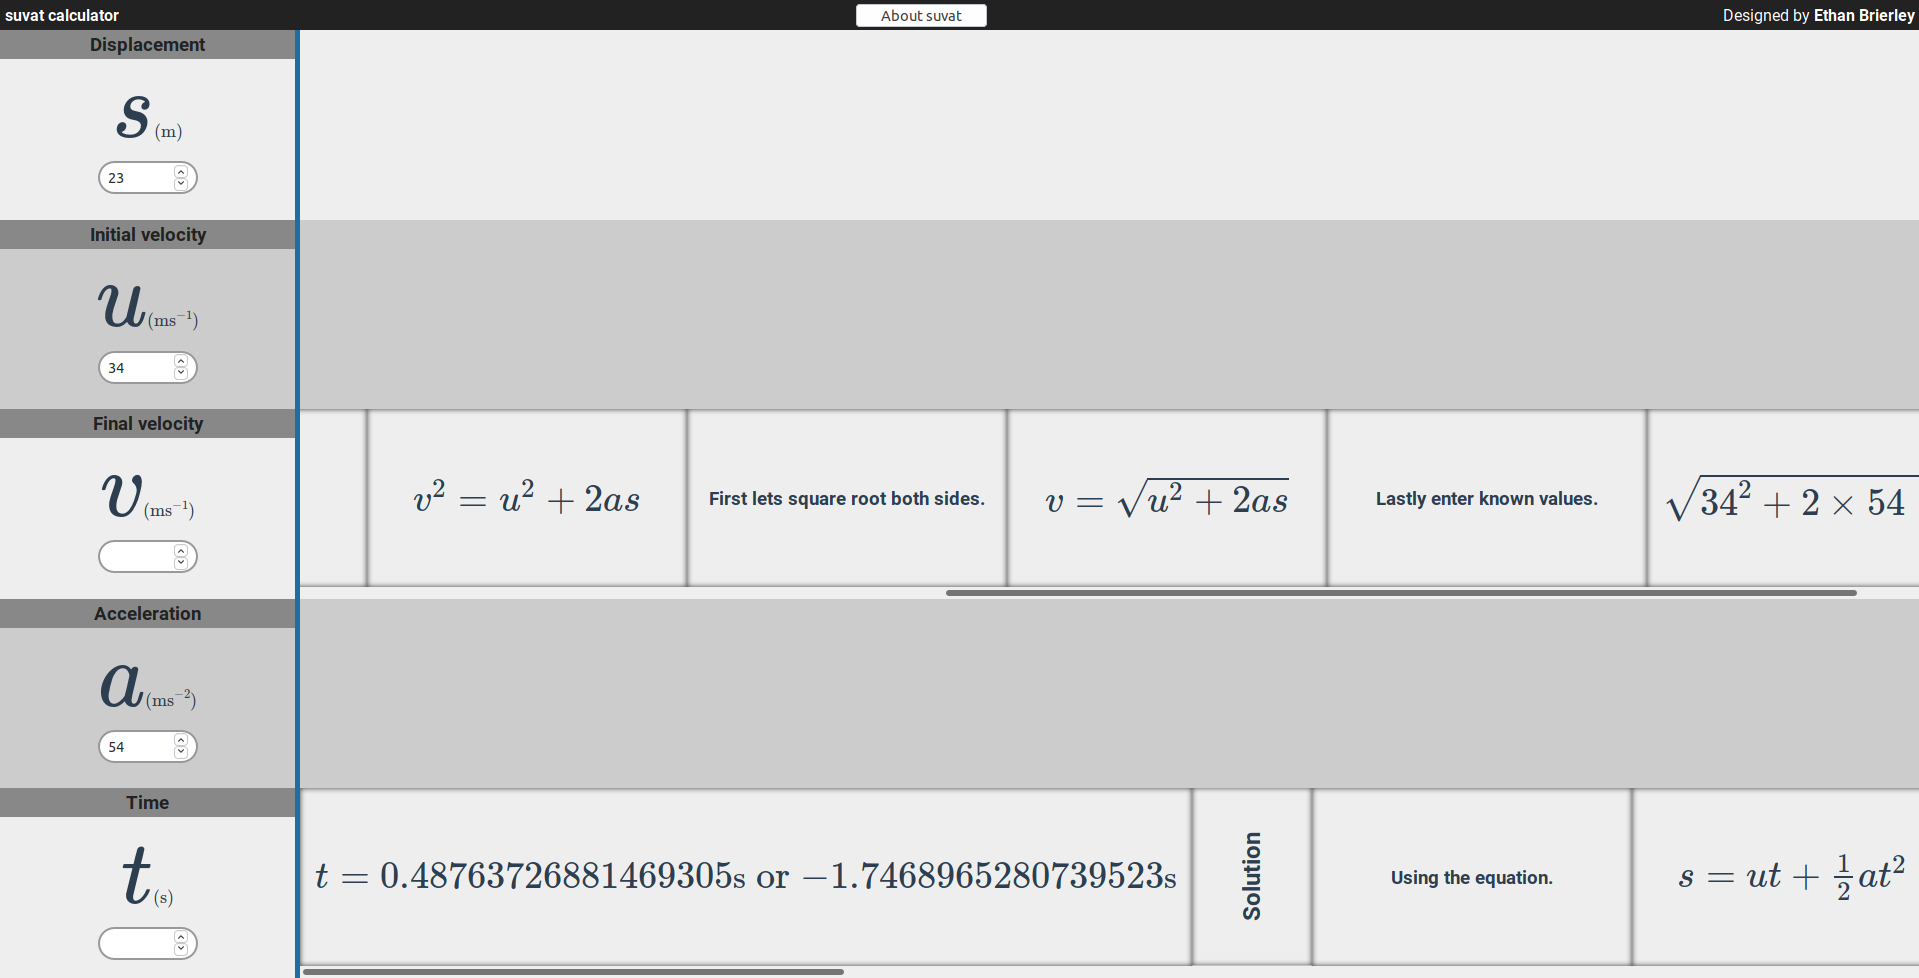
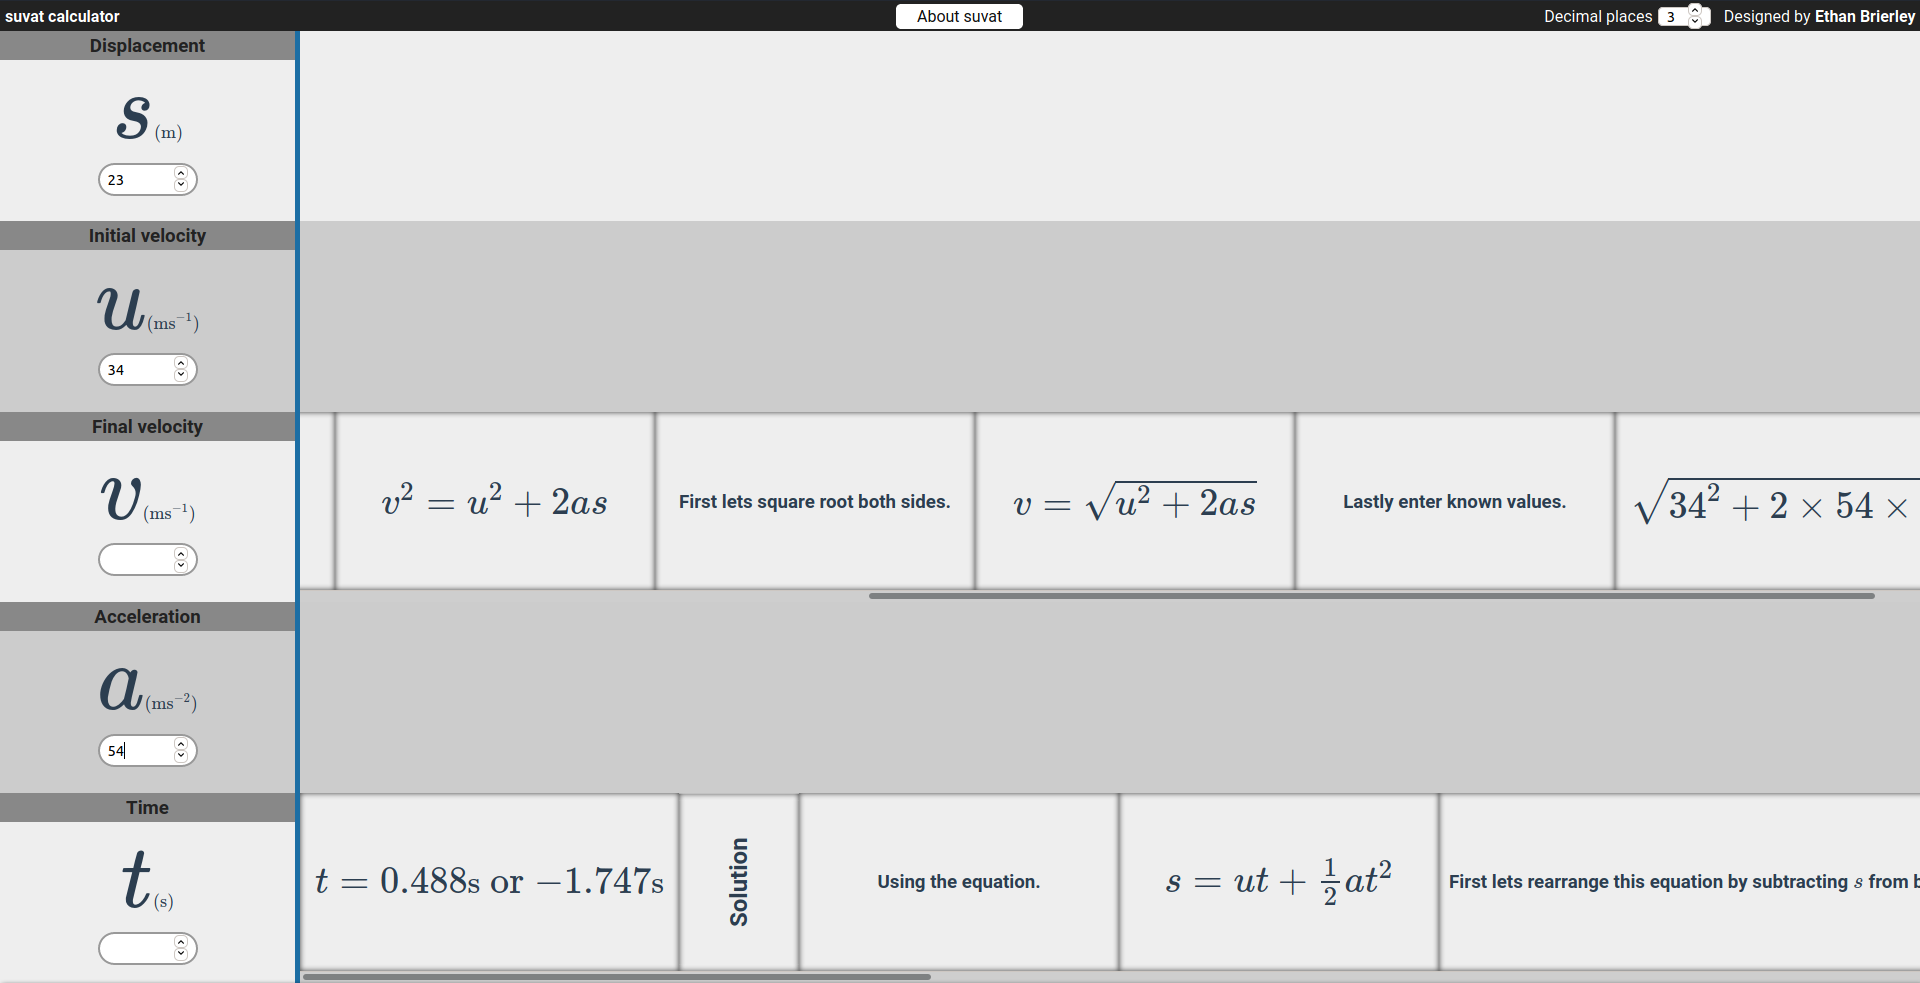
deriving and better branding

diff --git a/README.md b/README.md
@@ -1,4 +1,4 @@
-# suvat-calculator
+# SUVAT app
 
 <img align="right" width="135" src="src/assets/logo.png">
 
@@ -8,13 +8,17 @@
 
 ## Help
 
-If you run into any issues with this calculator please email [incoming+efunb-suvat-calculator-15193084-issue-@incoming.gitlab.com](mailto:incoming+efunb-suvat-calculator-15193084-issue-@incoming.gitlab.com)
+If you run into any issues with this web app please email [incoming+efunb-suvat-calculator-15193084-issue-@incoming.gitlab.com](mailto:incoming+efunb-suvat-calculator-15193084-issue-@incoming.gitlab.com)
 
 ## What is it?
 
-A single page web app that solves physics problems with constant acceleration.
+A web app that solves physics problems with constant acceleration.
 
 ![](screenshot.png)
+
+SUVAT app also explains the concepts around suvat such as how the suvat equations are derived.
+
+![](screenshotabout.png)
 
 ## Why make this when there are existing online suvat calculators?
 
